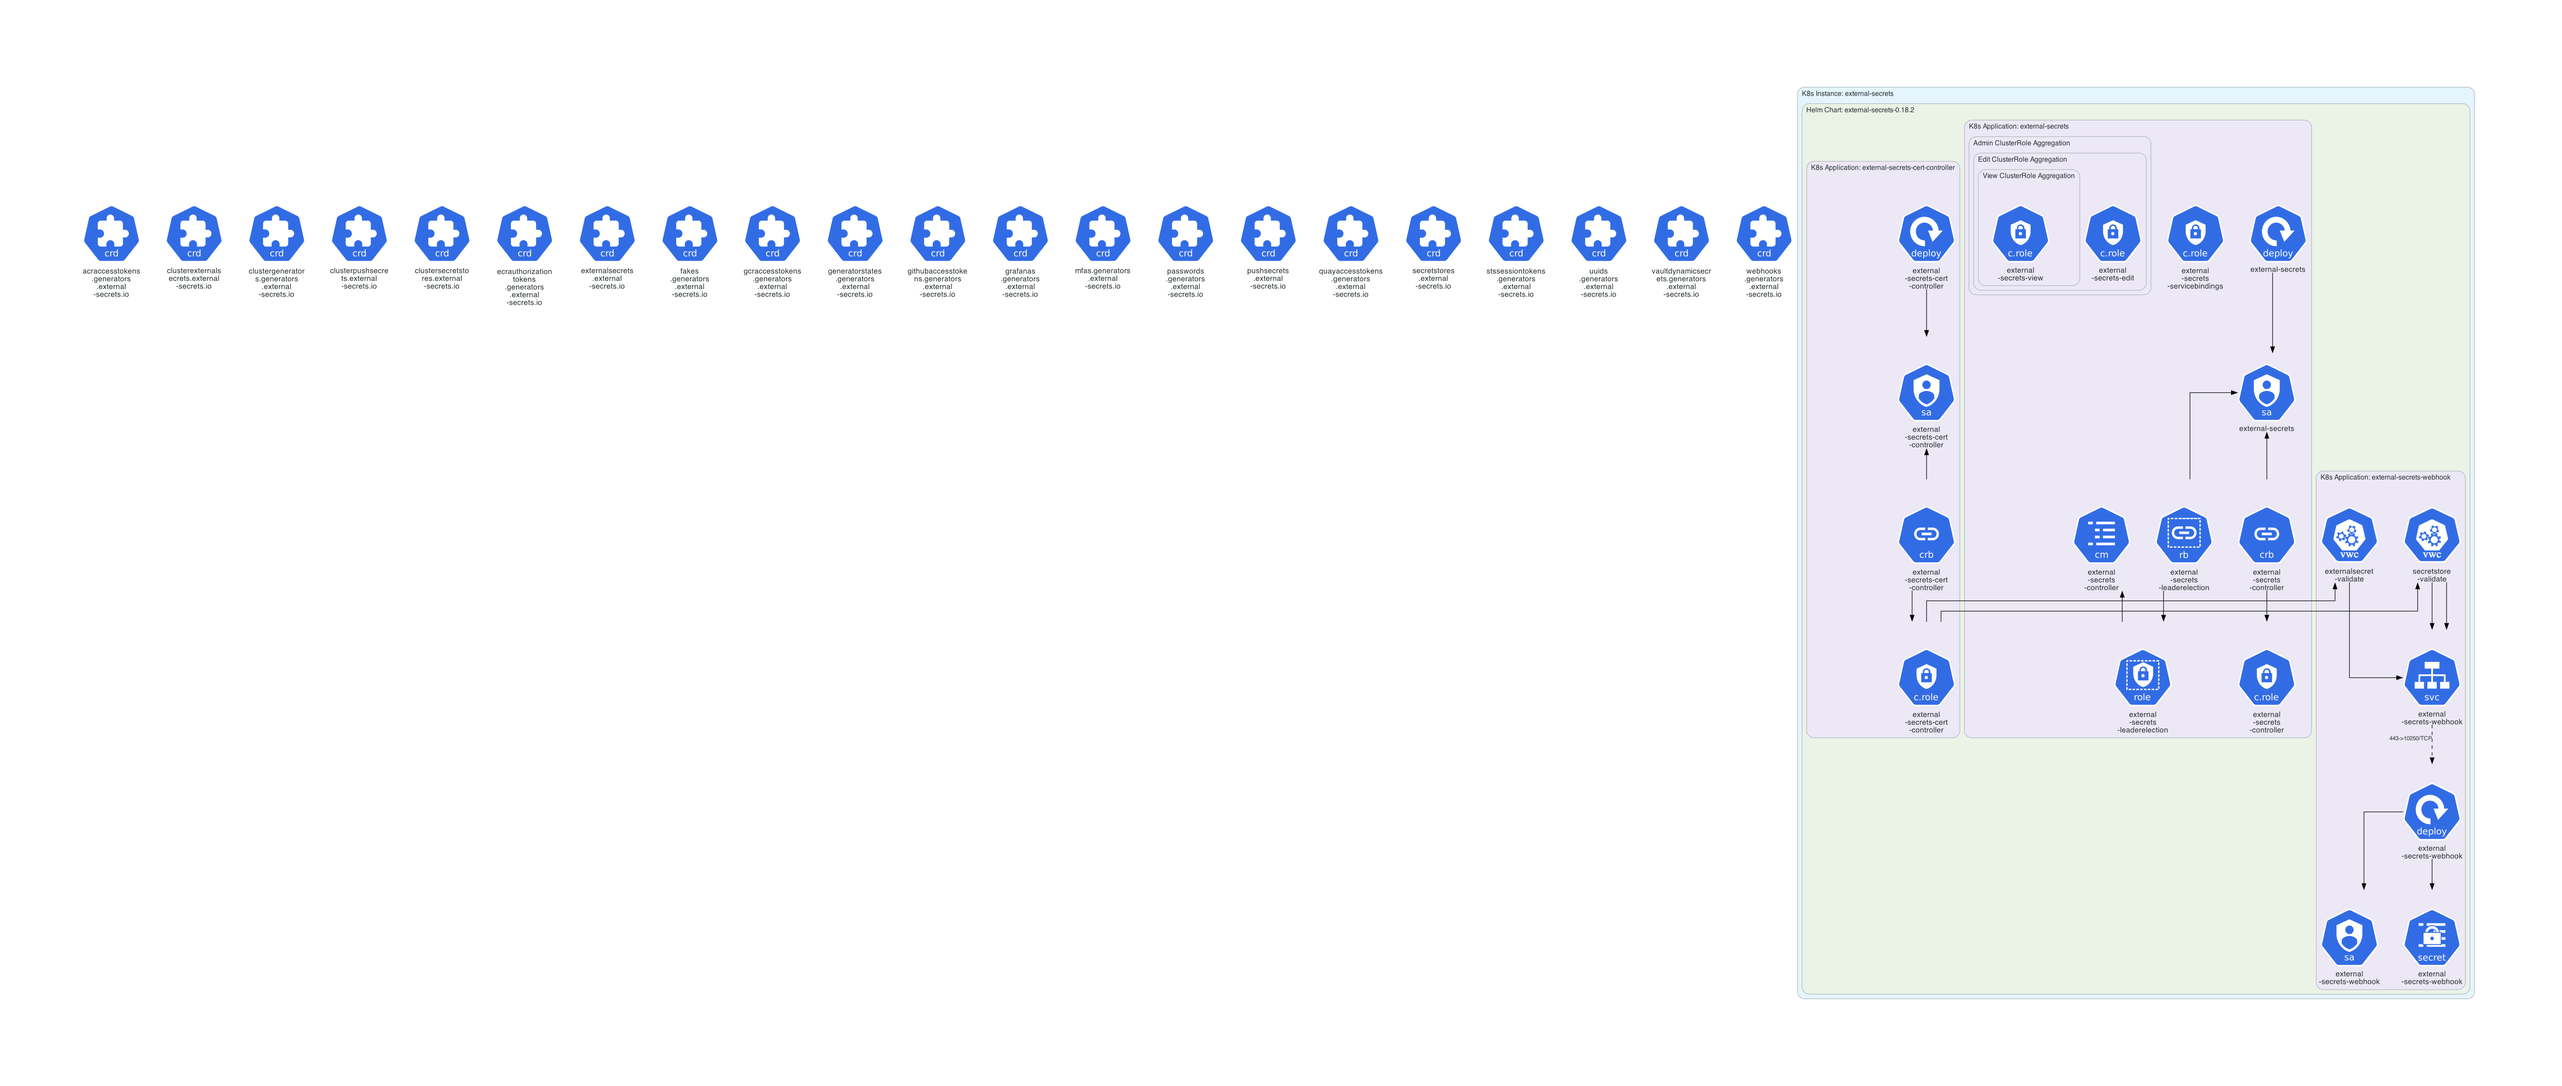
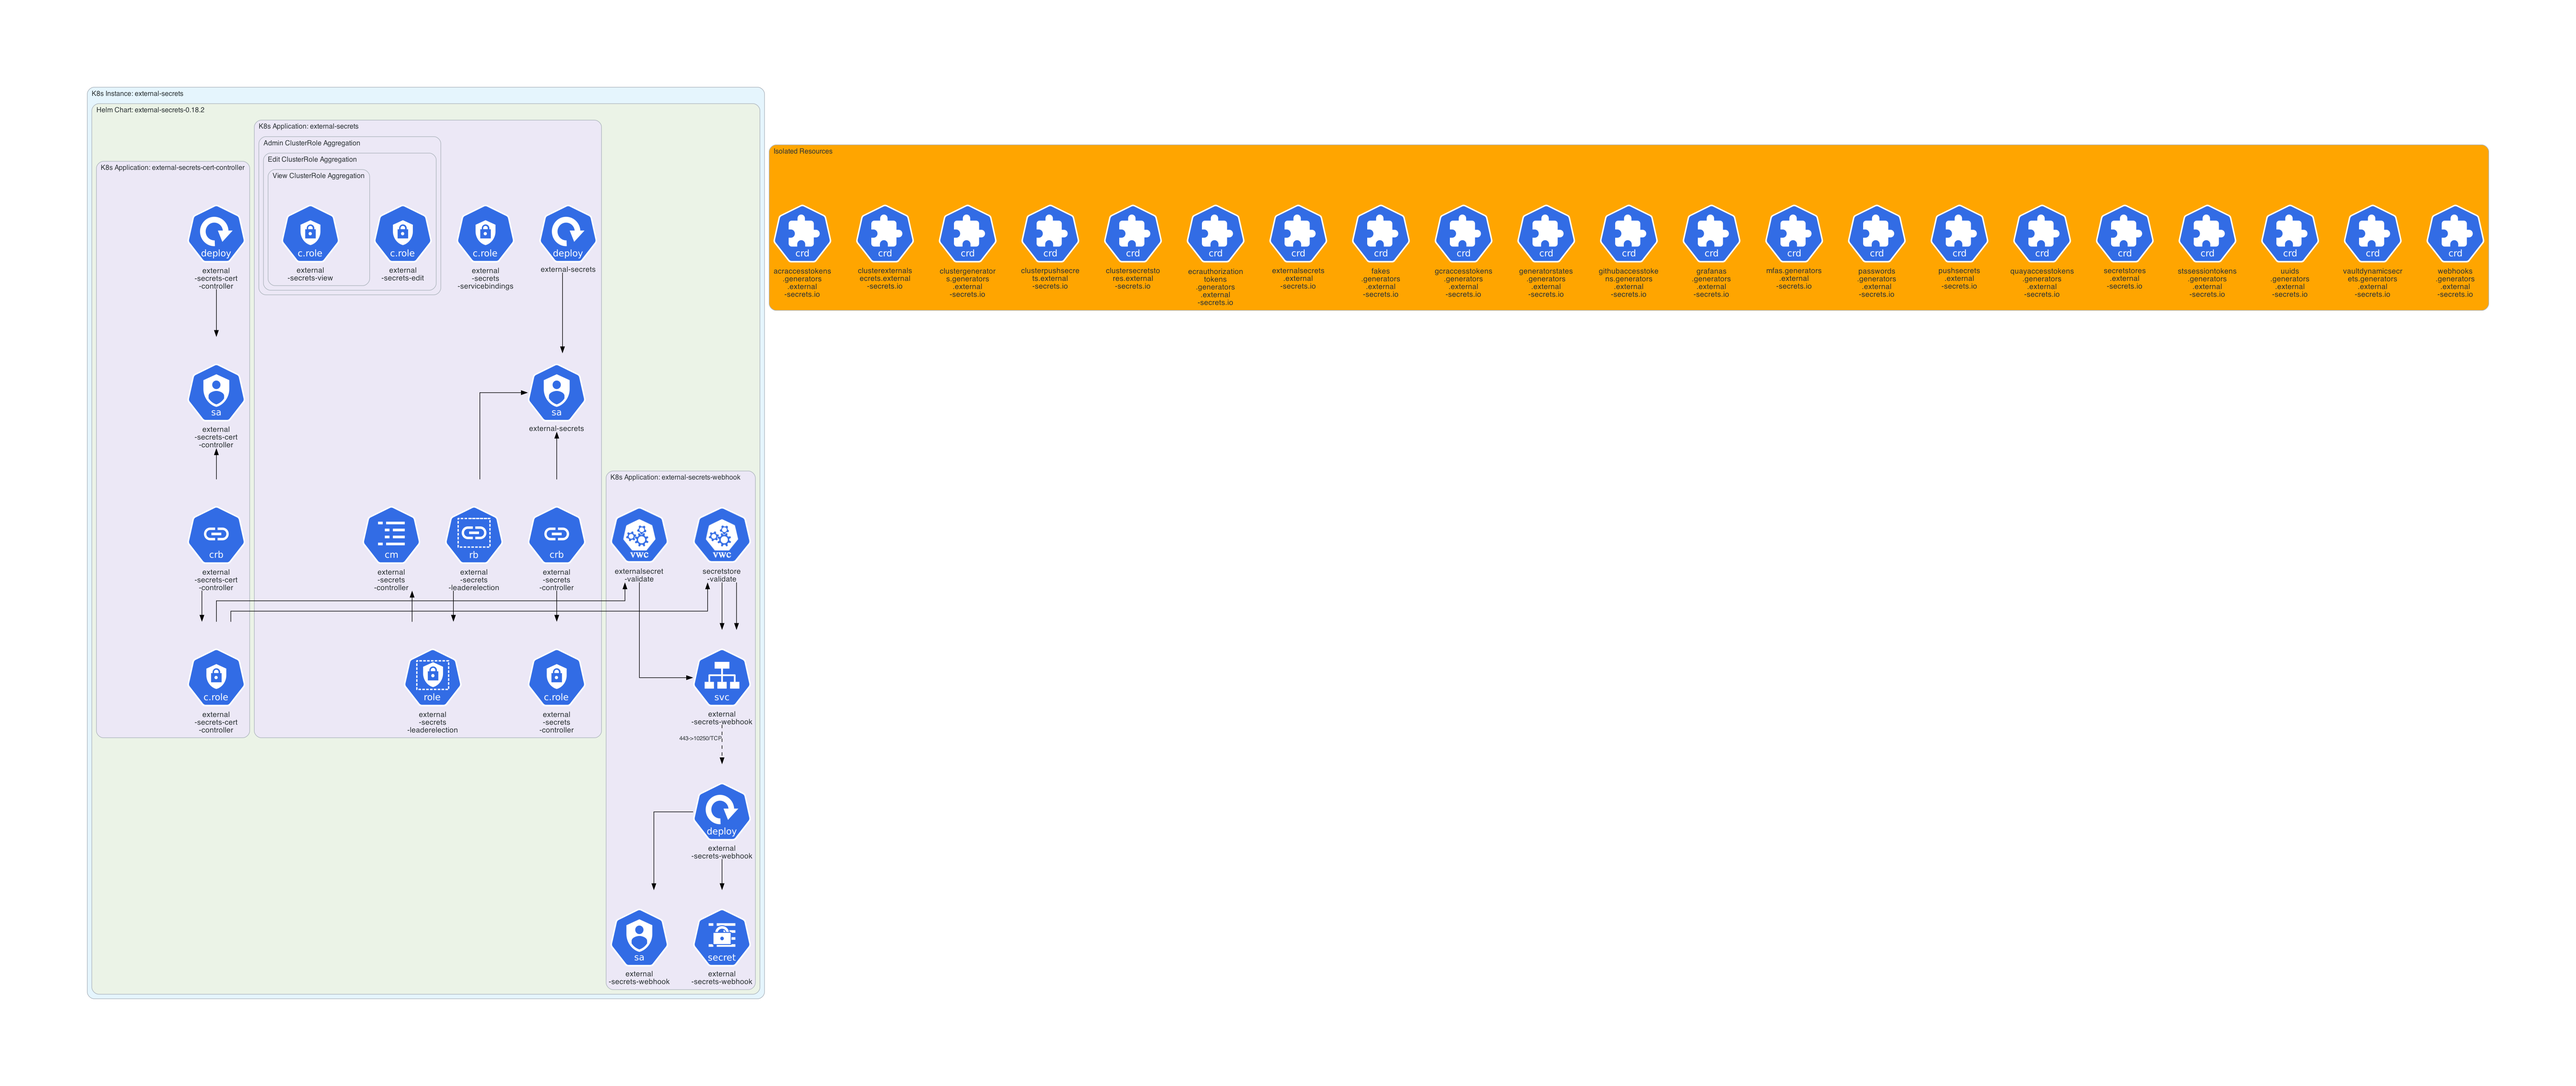
algo 3 modif : no cluster label resources instead of no label resources

diff --git a/src/kubefix/algo3.py b/src/kubefix/algo3.py
@@ -1,11 +1,12 @@
 """Algo 3: mark unlabeled resources with an isolated-resource label."""
 from kubefix.common import Warning
+from kubefix.common import CLUSTER_LABELS
 
 ISOLATED_LABEL = "isolated-resource"
 
 
 def algo3_mark_isolated(resources):
-    """Add an 'isolated-resource' label to any resource without labels.
+    """Add an 'isolated-resource' label to any resource without cluster labels.
 
     To be run as a last resort for truly resources where truly no label was found. 
 
@@ -20,13 +21,14 @@ def algo3_mark_isolated(resources):
         metadata = resource.setdefault("metadata", {})
         labels = metadata.get("labels")
 
-        # treat "no labels key" and "empty labels dict" the same way
-        if not labels:
+        # check if there are no labels that are cluster labels for the resource
+        #if not labels:
+        if not labels or not any(key in CLUSTER_LABELS for key in labels):
             metadata["labels"] = {ISOLATED_LABEL: ""}
             warnings.append(Warning(
                 resource_kind=resource.get("kind", "?"),
                 resource_name=metadata.get("name", "?"),
-                message="Resource has no labels; marked as isolated.",
+                message="Resource has no cluster labels; marked as isolated.",
             ))
 
     return resources, warnings

diff --git a/src/kubefix/algo4.py b/src/kubefix/algo4.py
@@ -1,14 +1,6 @@
 """Algo 4: assign cluster labels to unlabeled resources when the context is unambiguous."""
 from kubefix.common import Warning
-
-# Labels that define clusters in KubeDiagrams, in order of significance.
-CLUSTER_LABELS = [
-    "app.kubernetes.io/instance",
-    "helm.sh/chart",
-    "app.kubernetes.io/name",
-    "app.kubernetes.io/component",
-]
-
+from kubefix.common import CLUSTER_LABELS
 
 def algo4_assign_unique_cluster_labels(resources):
     """Give unlabeled resources the cluster labels of the only candidate cluster.

diff --git a/src/kubefix/common.py b/src/kubefix/common.py
@@ -5,3 +5,11 @@ class Warning:
     resource_kind: str
     resource_name: str
     message: str
+
+# Labels that define clusters in KubeDiagrams, in order of significance.
+CLUSTER_LABELS = [
+    "app.kubernetes.io/instance",
+    "helm.sh/chart",
+    "app.kubernetes.io/name",
+    "app.kubernetes.io/component",
+]
